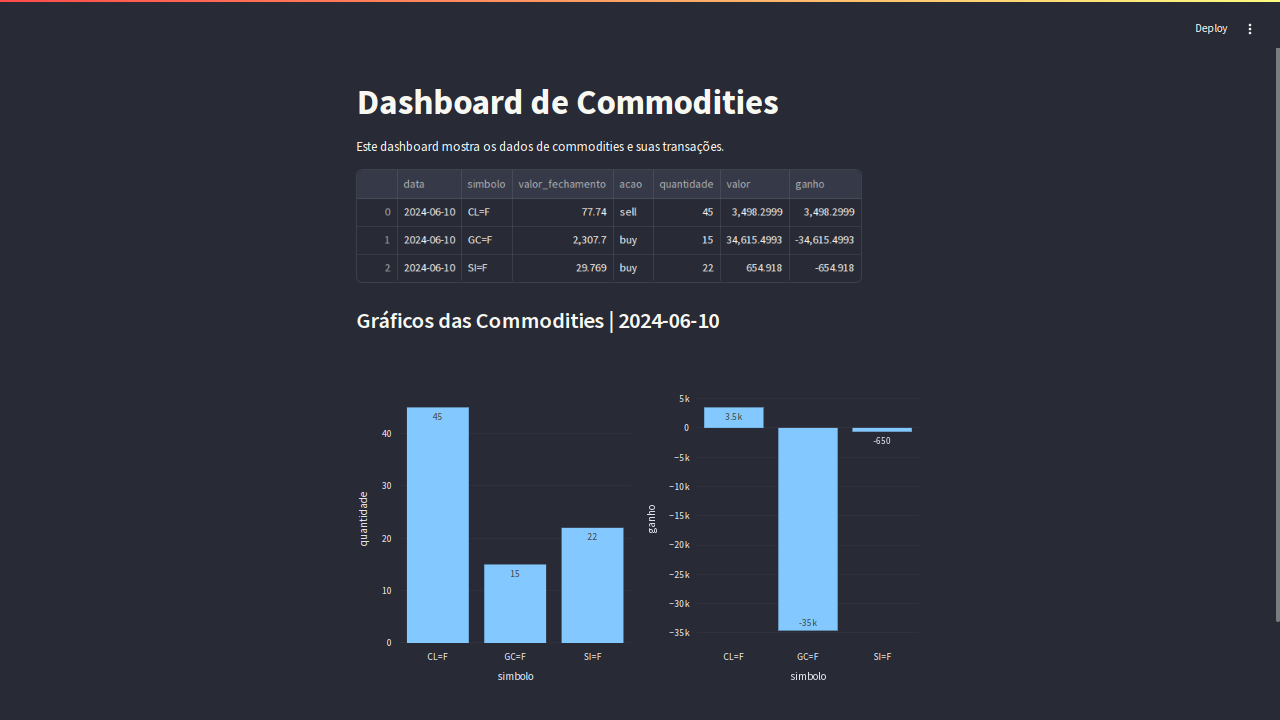
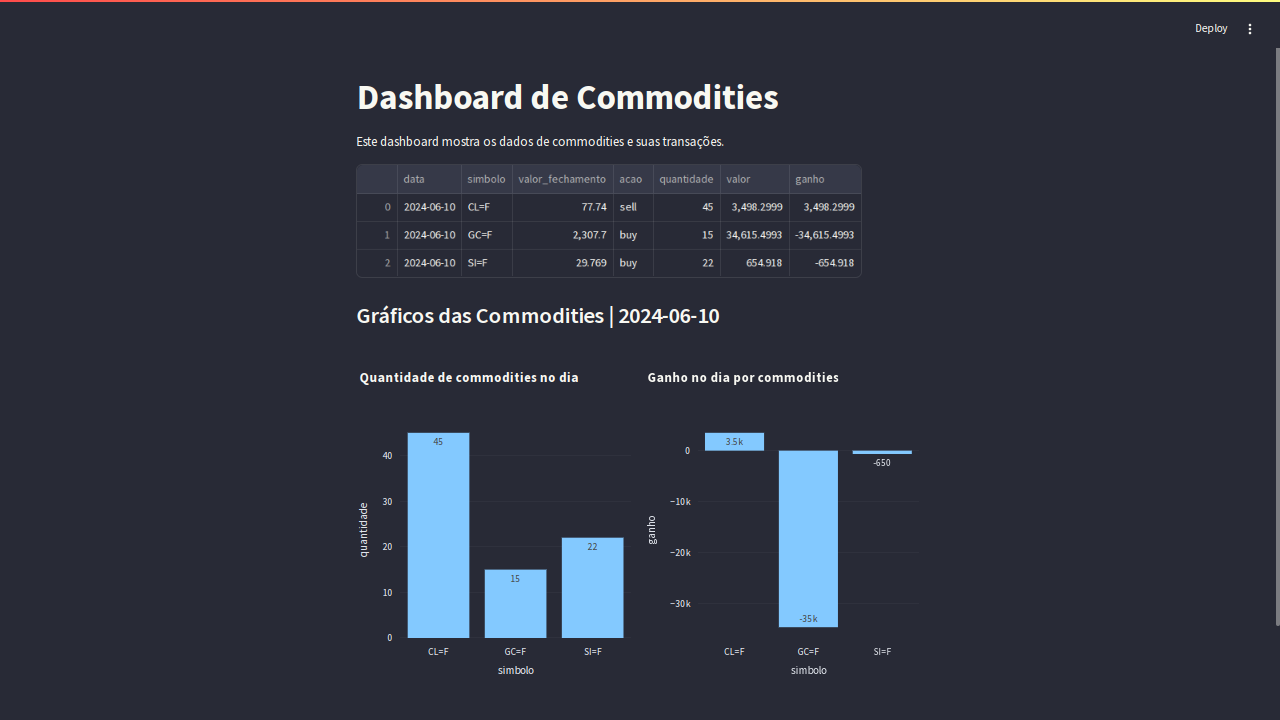
docs: readme atualizado.

diff --git a/app/app.py b/app/app.py
@@ -66,8 +66,10 @@ st.dataframe(df)
 
 st.subheader('Gráficos das Commodities | 2024-06-10')
 col1, col2 = st.columns(2)
-fig1 = px.bar(df, x='simbolo', y='quantidade', text_auto='.2s')
+fig1 = px.bar(df, x='simbolo', y='quantidade', text_auto='.2s',
+              title="Quantidade de commodities no dia")
 col1.plotly_chart(fig1)
 
-fig2 = px.bar(df, x='simbolo', y='ganho', text_auto='.2s')
+fig2 = px.bar(df, x='simbolo', y='ganho', text_auto='.2s',
+              title="Ganho no dia por commodities")
 col2.plotly_chart(fig2)
